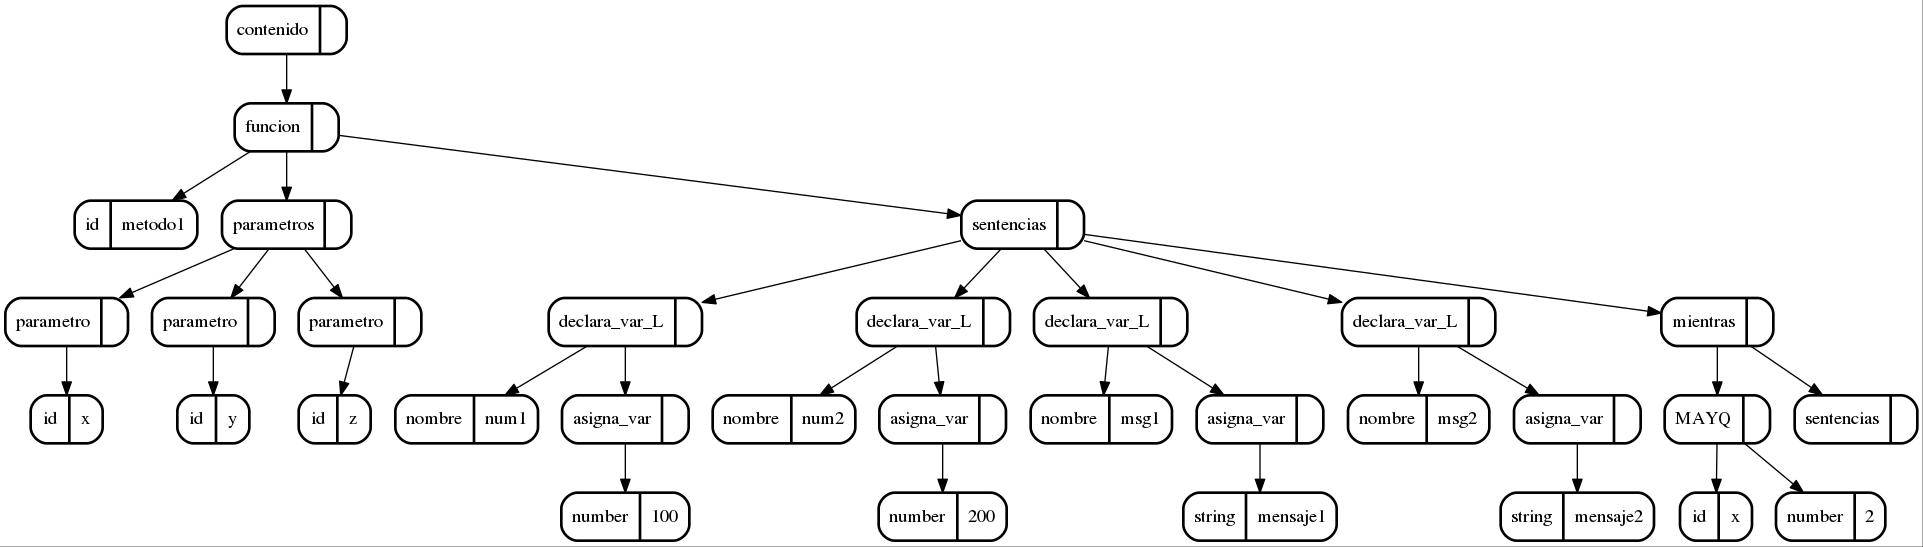
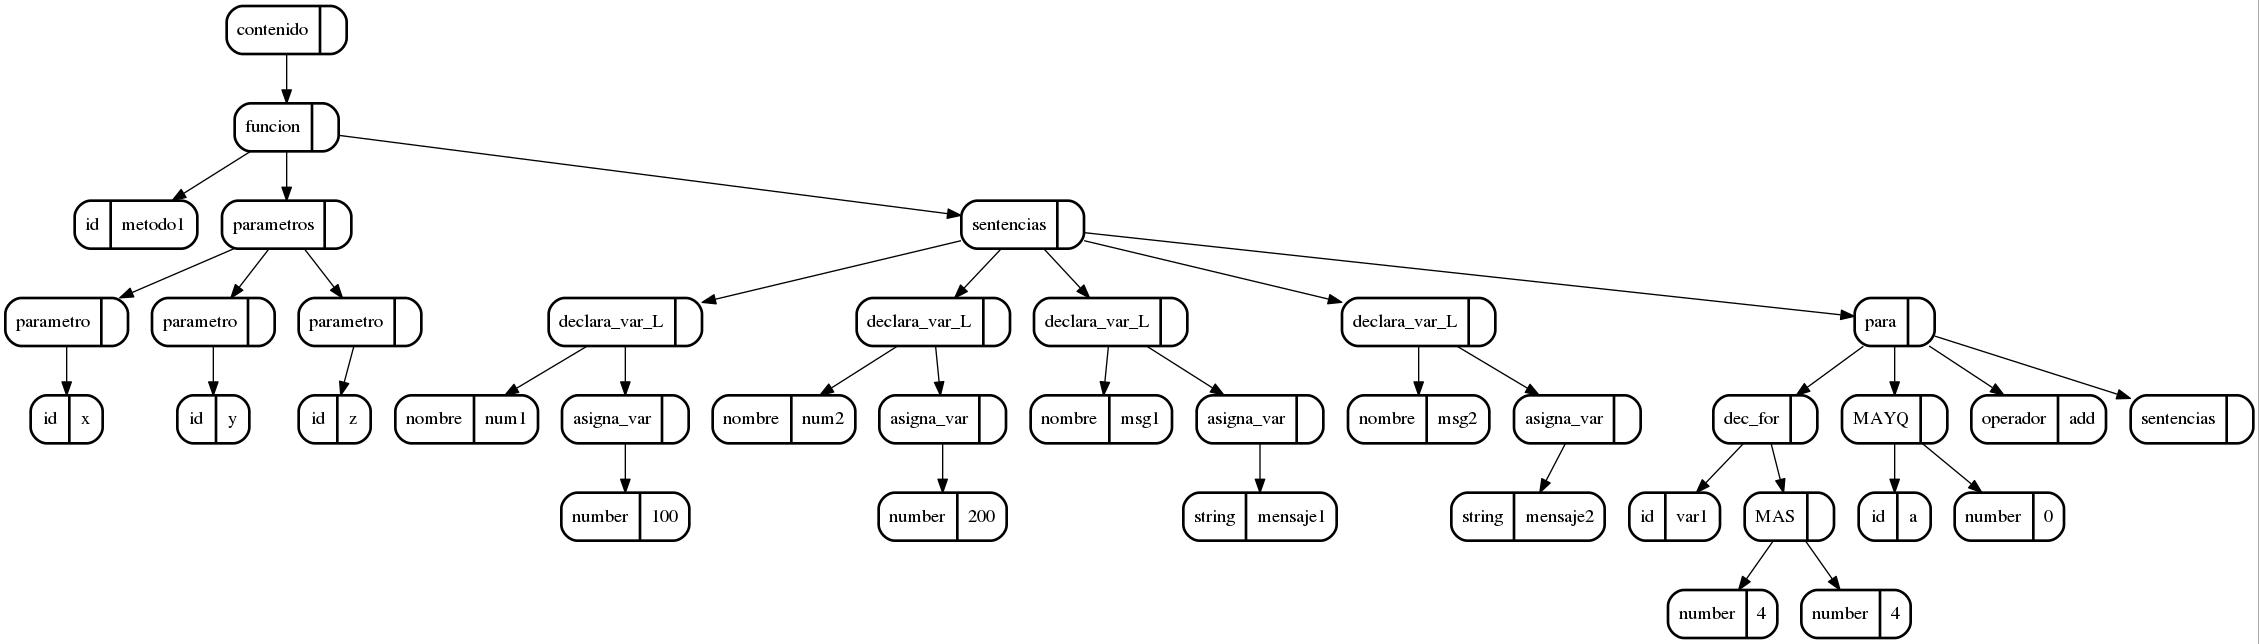
Lunes 19 febrero, ejecutando para , selecciona  faltan las pruebas finales

Changed region(s): [[0.0, 0.0, 1.0, 1.0], [0.6864, 0.4351, 0.7488, 0.4662], [0.3432, 0.404, 0.3744, 0.4351]]

diff --git a/USAC_WEB/src/CJS_Compilador/Selecciona.java b/USAC_WEB/src/CJS_Compilador/Selecciona.java
@@ -1,0 +1,109 @@
+/*
+ * To change this license header, choose License Headers in Project Properties.
+ * To change this template file, choose Tools | Templates
+ * and open the template in the editor.
+ */
+package CJS_Compilador;
+
+import CJS_Compilador.OperacionesARL.OperacionesARL;
+import Estructuras.Nodo;
+
+/**
+ *
+ * @author fernando
+ */
+public class Selecciona extends Compilador{
+
+    @Override
+    public Metodo ejecutar(Nodo raiz) {
+        Nodo acceso = raiz.hijos.get(0);// Nodo EXP 
+        Nodo casos = raiz.hijos.get(1); // Lista de Casos
+        boolean estado = true;
+        
+        Nodo defecto=null;
+        if (casos.hijos.size() > 0) {
+            for (int i = 0; i < casos.hijos.size(); i++) {
+                if(casos.hijos.get(i).nombre.equals("caso")){
+                    Nodo caso = casos.hijos.get(i); // Nodo CASO
+                    Nodo comp = caso.hijos.get(0); // Nodo EXPR
+                    Nodo sentencias = caso.hijos.get(1);// Sentencias del CASO
+
+                    Nodo exp = new Nodo("IG_IG","", comp.linea, comp.columna,0);
+                    exp.add(acceso);
+                    exp.add(comp);
+
+                    opL = new OperacionesARL(global, tabla);
+                    ResultadoG condicion = opL.ejecutar(exp);
+
+                    if (condicion.tipo.equals("boolean")) {
+                        if ((Boolean) condicion.valor) {
+                            //cambio de ambito
+                            TablaSimboloG tablaTemp = new TablaSimboloG();
+                            tablaTemp.cambiarAmbito(tabla);
+                            pilaTablas.push(tabla);
+                            tabla = tablaTemp;
+                            
+                            metodoActual = ejecutarSentencias(sentencias);
+
+                            if (metodoActual.estadoRetorno) {
+                                tabla = pilaTablas.pop();
+                                return metodoActual;
+                            }
+
+                            if (metodoActual.estadoTerminar) {
+                                estado = false;
+                                tabla = pilaTablas.pop();
+                                metodoActual.estadoTerminar = false;
+                                break;
+                            }
+                            if (metodoActual.estadoContinuar) {
+                                estado = false;
+                                tabla = pilaTablas.pop();
+                                //metodoActual.estadoContinuar=false;
+                                break;
+                            }
+                            tabla = pilaTablas.pop();
+                        }
+                    }
+                }else{
+                    defecto = casos.hijos.get(i);
+                }
+                
+            }
+            
+            //defecto
+            if (estado && defecto != null) {
+                
+                
+                Nodo sentencias = defecto.hijos.get(0);
+
+                estado = false;
+                TablaSimboloG tablaTemp = new TablaSimboloG();
+                tablaTemp.cambiarAmbito(tabla);
+                pilaTablas.push(tabla);
+                tabla = tablaTemp;
+                metodoActual = ejecutarSentencias(sentencias);
+
+                if (metodoActual.estadoRetorno) {
+                    tabla = pilaTablas.pop();
+                    return metodoActual;
+                }
+
+                if (metodoActual.estadoTerminar) {
+                    tabla = pilaTablas.pop();
+                    metodoActual.estadoTerminar = false;
+                }
+                if (metodoActual.estadoContinuar) {
+                    estado = false;
+                    tabla = pilaTablas.pop();
+                    //metodoActual.estadoContinuar=false;
+                } else {
+                    tabla = pilaTablas.pop();
+                }
+            }
+
+        }
+        return metodoActual;
+    }
+    
+}

diff --git a/USAC_WEB/src/CJS_Compilador/Para.java b/USAC_WEB/src/CJS_Compilador/Para.java
@@ -1,0 +1,82 @@
+/*
+ * To change this license header, choose License Headers in Project Properties.
+ * To change this template file, choose Tools | Templates
+ * and open the template in the editor.
+ */
+package CJS_Compilador;
+
+import CJS_Compilador.OperacionesARL.OperacionesARL;
+import Estructuras.Nodo;
+
+/**
+ *
+ * @author fernando
+ */
+public class Para extends Compilador {
+
+    @Override
+    public Metodo ejecutar(Nodo raiz) {
+        Nodo declaracion = raiz.hijos.get(0);
+        Nodo expCondicion = raiz.hijos.get(1);
+        Nodo operador = raiz.hijos.get(2);
+        Nodo sentencias = raiz.hijos.get(3);
+
+        opL = new OperacionesARL(global, tabla);
+        ResultadoG condicion = opL.ejecutar(expCondicion);
+
+        Nodo expA = declaracion.hijos.get(1);
+
+        //********** declarar la variable
+        Nodo declaraVar = new Nodo("declara_var_L", "", declaracion.linea, declaracion.columna, 0);
+        declaraVar.add(declaracion.hijos.get(0));
+        Nodo h1 = new Nodo("asigna_var", "", expA.linea, expA.columna, 0);
+        h1.add(expA);
+        declaraVar.add(h1);
+
+        TablaSimboloG tablaTempPrincipal = new TablaSimboloG();
+        tablaTempPrincipal.cambiarAmbito(tabla);
+        pilaTablas.add(tabla);
+        tabla = tablaTempPrincipal;
+
+        new Declaracion(declaraVar, global, tabla);
+
+        if (condicion.tipo.equals("boolean")) {
+
+            while ((Boolean) condicion.valor) {
+
+                TablaSimboloG tablaTemp = new TablaSimboloG();
+                tablaTemp.cambiarAmbito(tabla);
+                pilaTablas.push(tabla);
+                tabla = tablaTemp;
+                
+                metodoActual = ejecutarSentencias(sentencias);
+                
+                tabla = pilaTablas.pop();
+                //**************************************************************
+                //**************************************************************
+
+                if (operador.valor.equals("add") || operador.valor.equals("sub")) {
+                    Nodo n_ADD = new Nodo(operador.valor.toUpperCase(), "", operador.linea, operador.columna, 0);
+                    n_ADD.add(declaracion.hijos.get(0));
+                    opL.ejecutar(n_ADD);
+                }
+                if (metodoActual.estadoRetorno) {
+                    break;
+                }
+                if (metodoActual.estadoTerminar) {
+                    metodoActual.estadoTerminar = false;
+                    break;
+                }
+
+                if (metodoActual.estadoContinuar) {
+                    metodoActual.estadoContinuar = false;
+                }
+
+                condicion = opL.ejecutar(expCondicion);
+            }
+        }
+
+        return metodoActual;
+    }
+
+}
